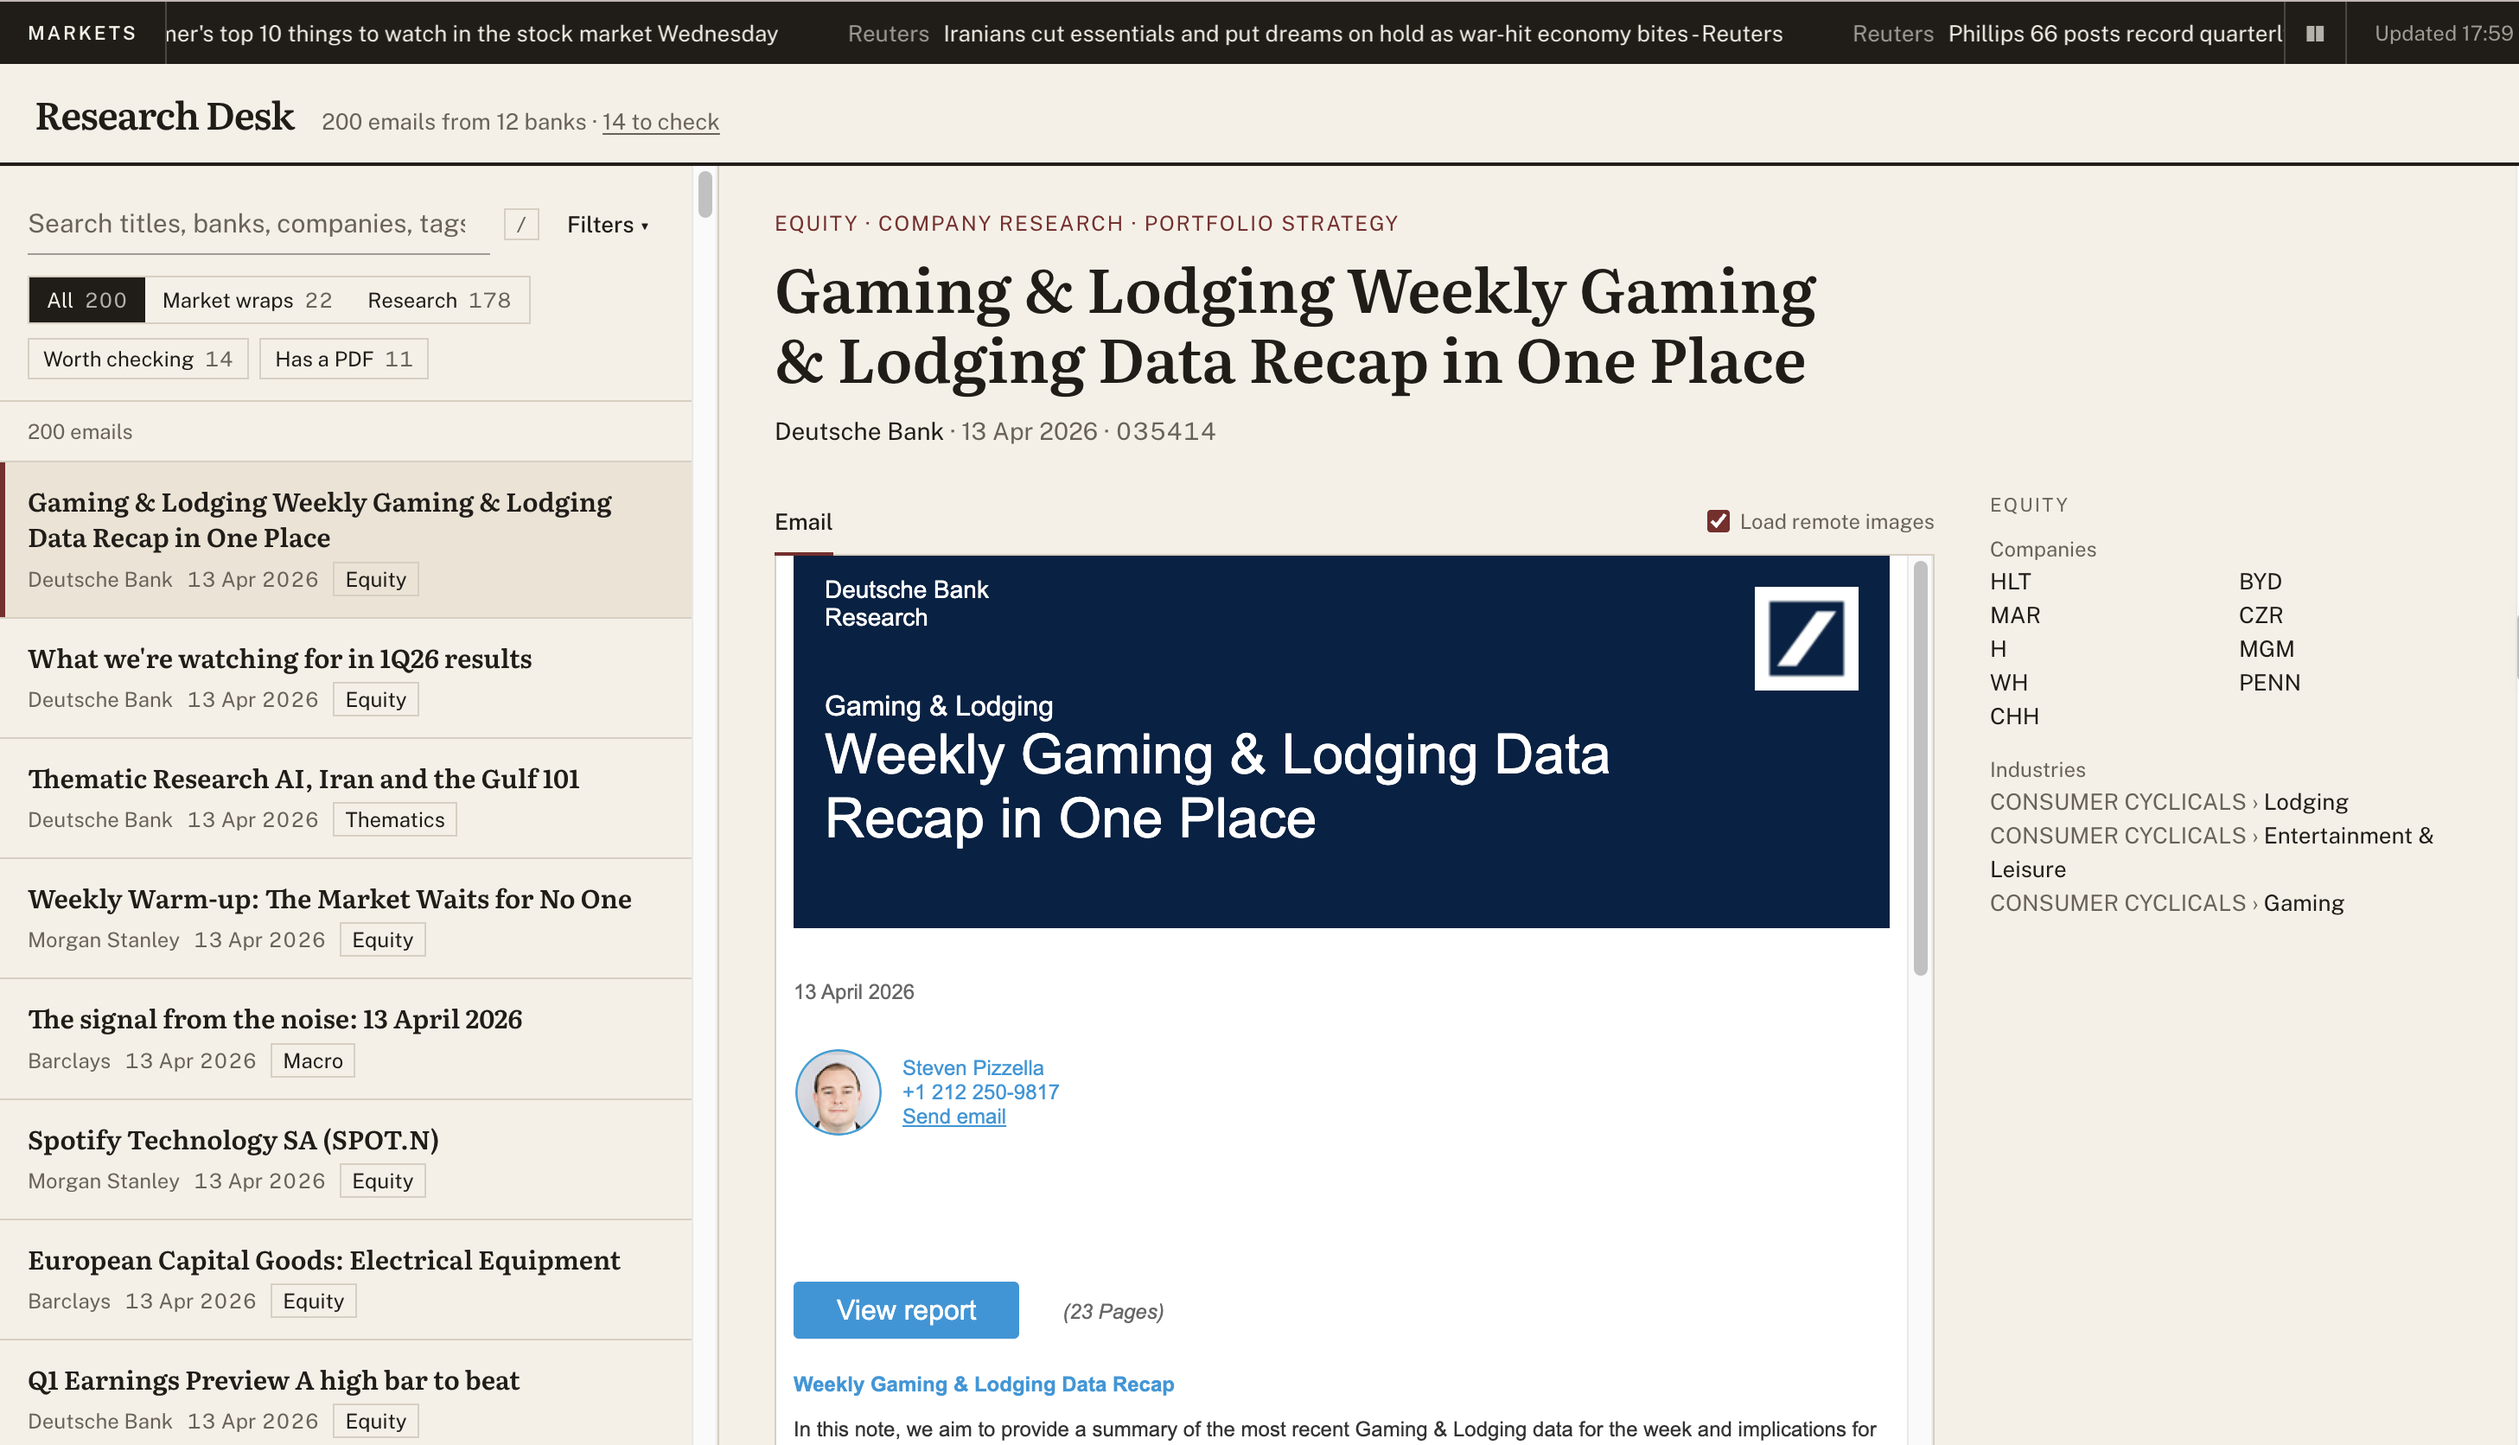
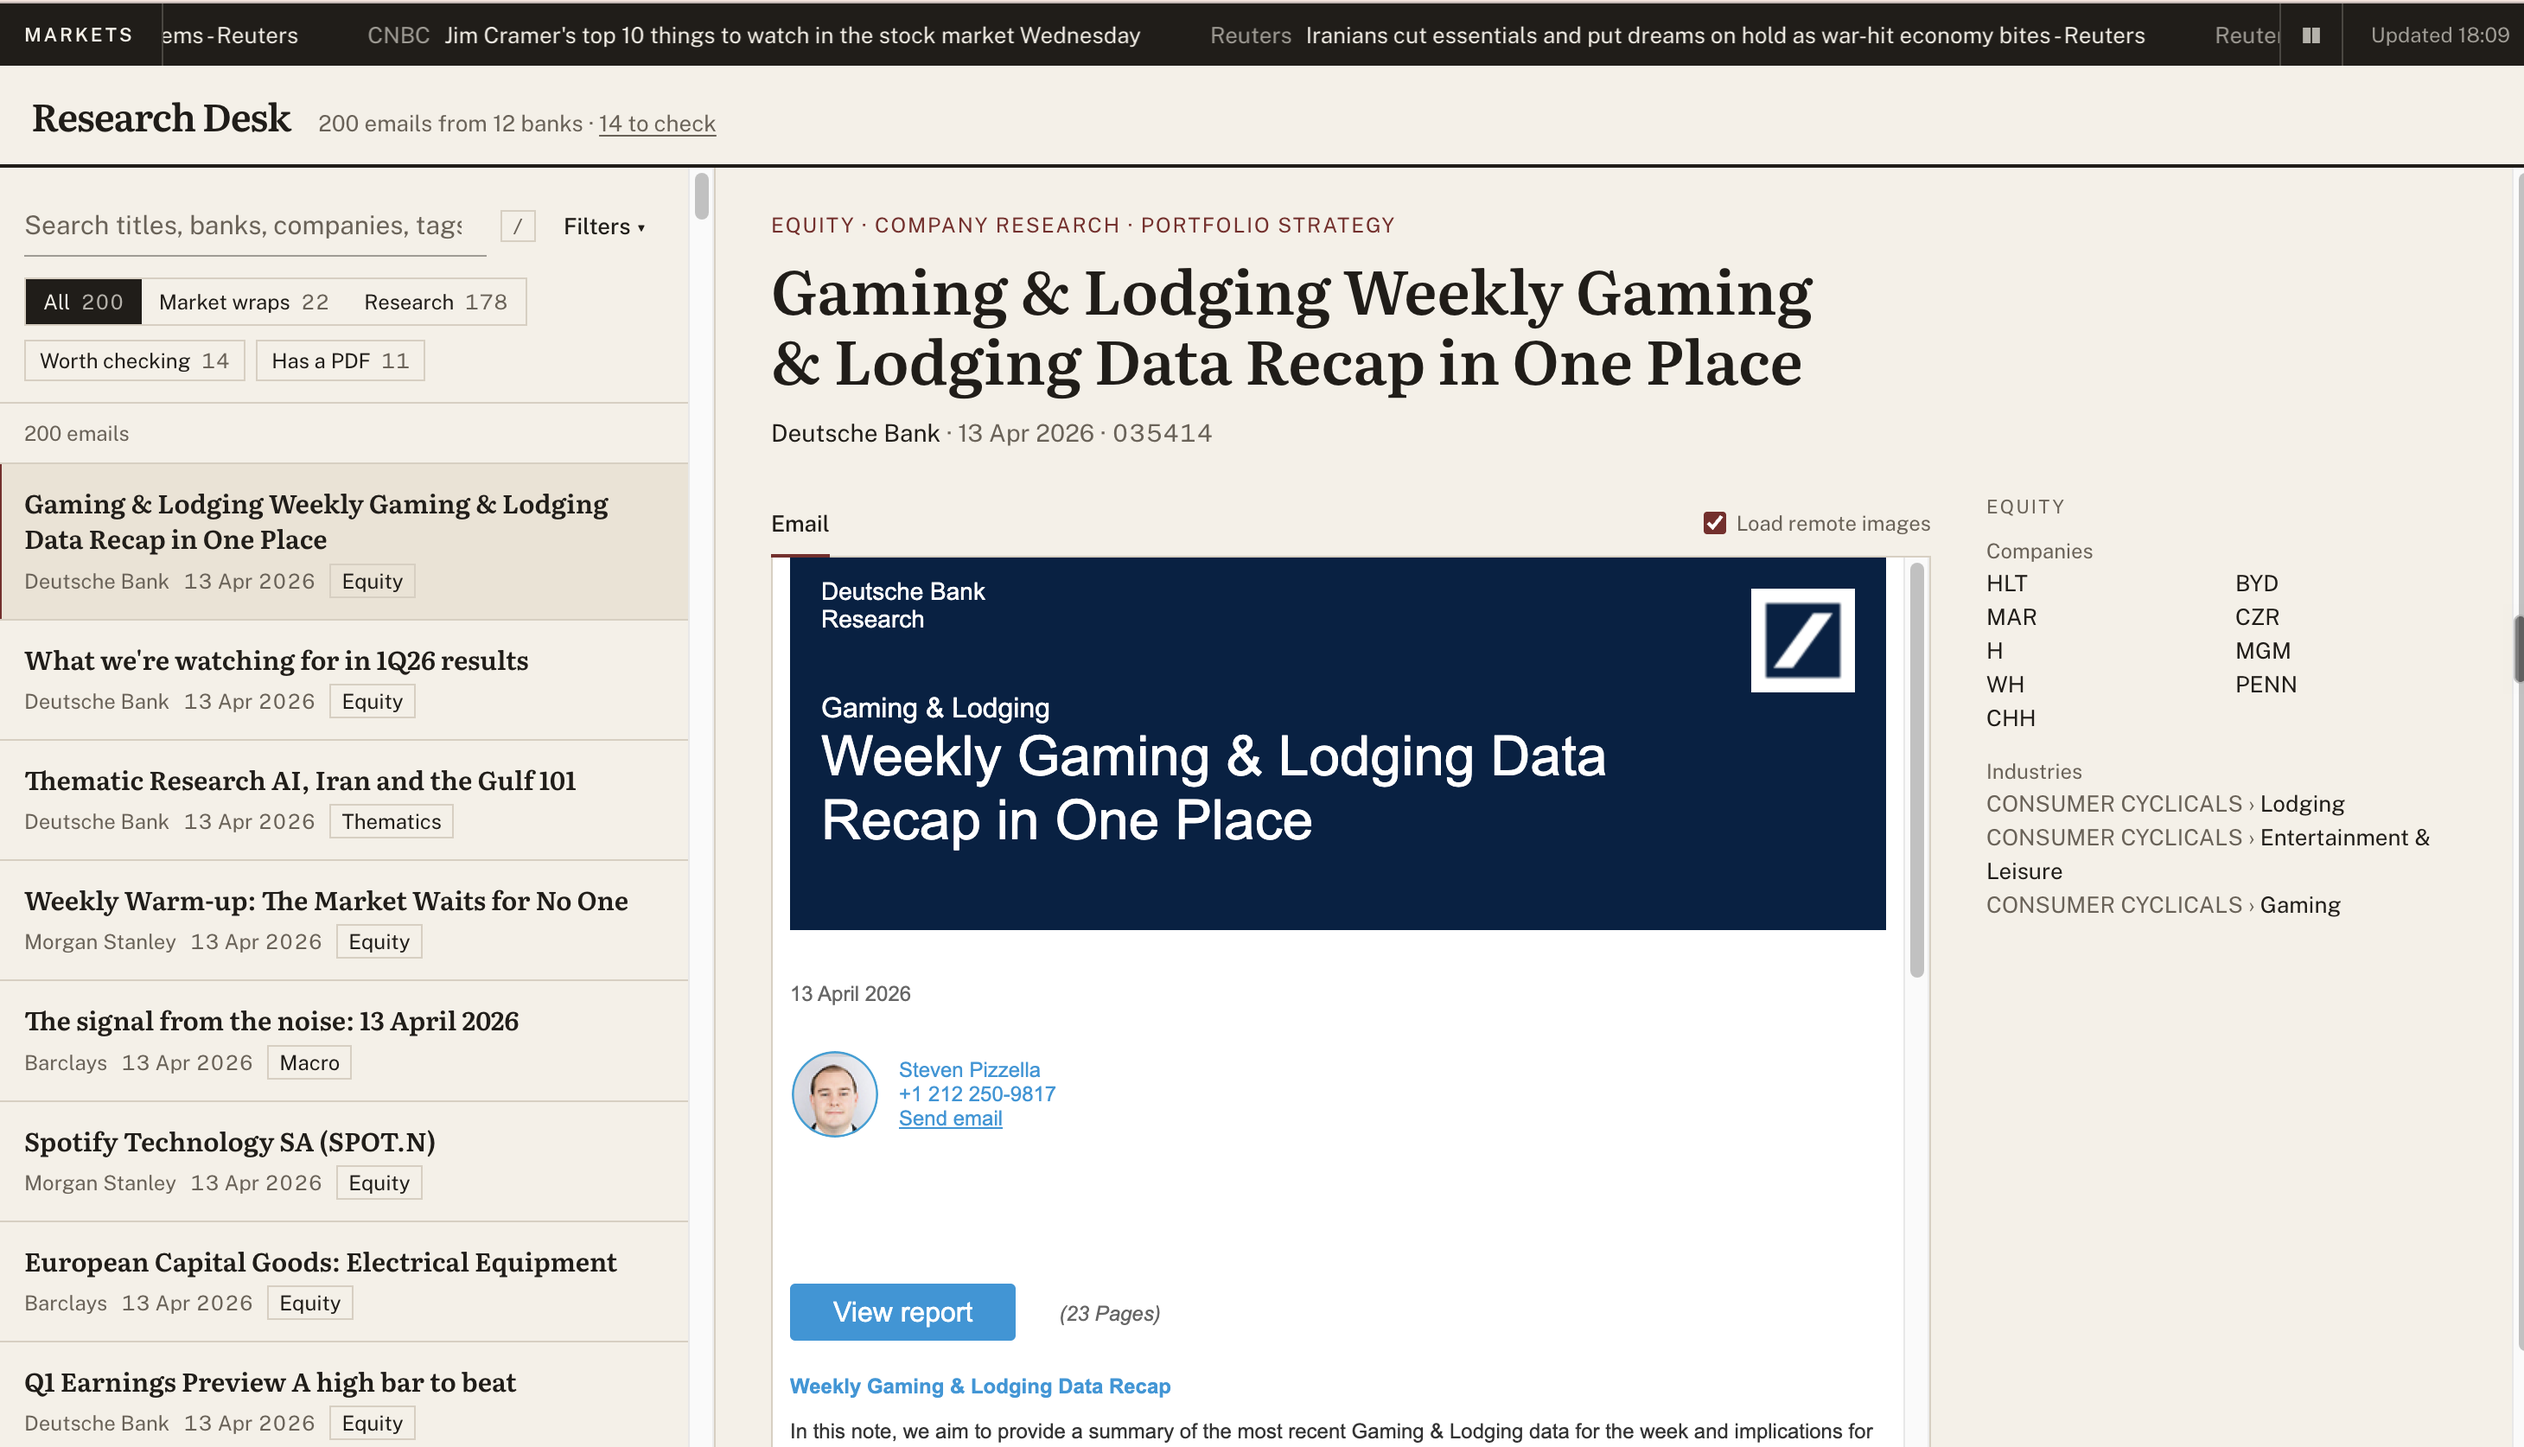
use the full dashboard screenshot in the readme

diff --git a/README.md b/README.md
@@ -27,10 +27,7 @@ is described step by step in
 
 ## What it looks like
 
-[![The dashboard: live headlines on top, the 200 emails on the left, the open email on the right](docs/screenshots/dashboard-closeup.png)](docs/screenshots/dashboard.png)
-
-Click the picture for the whole page, including the panel that lists the companies and
-industries of company research.
+![The dashboard: live headlines on top, the 200 emails on the left, the open email on the right](docs/screenshots/dashboard.png)
 
 **Search and filters.** Market wraps or research first, then date, bank and asset class, each
 with a count of the emails it would show.
